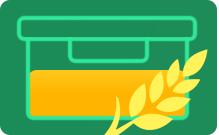
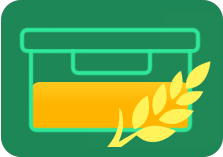
Taller box sprites and new gear sprite
Re-exported from the updated sheet. Cache v4.

diff --git a/sw.js b/sw.js
@@ -1,6 +1,6 @@
 // Offline support: the whole app is cached on install and served from the cache.
 // Bump VERSION with every release so installed apps pick up the new files.
-const VERSION = 'v3';
+const VERSION = 'v4';
 const CACHE = `feed-my-horse-${VERSION}`;
 
 const FILES = [
